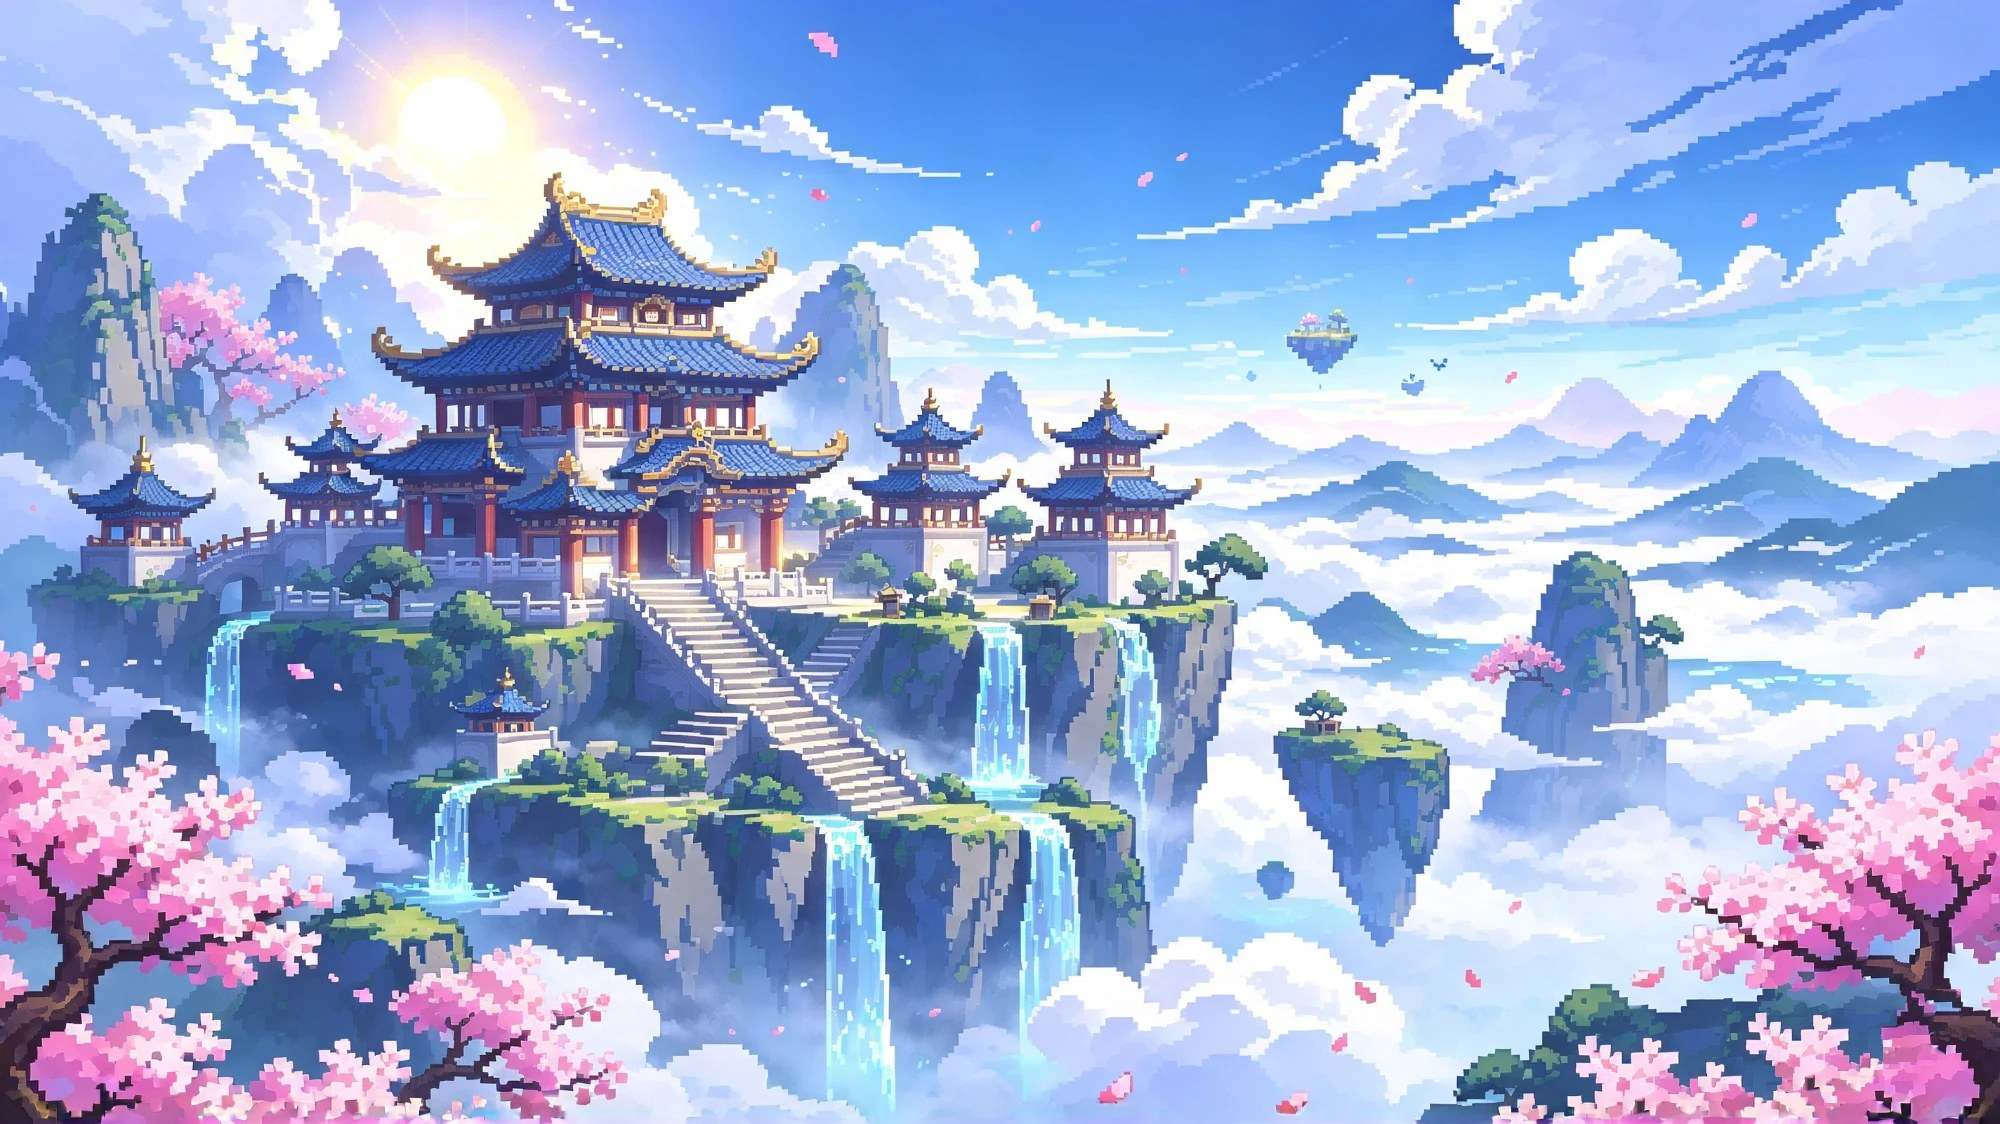
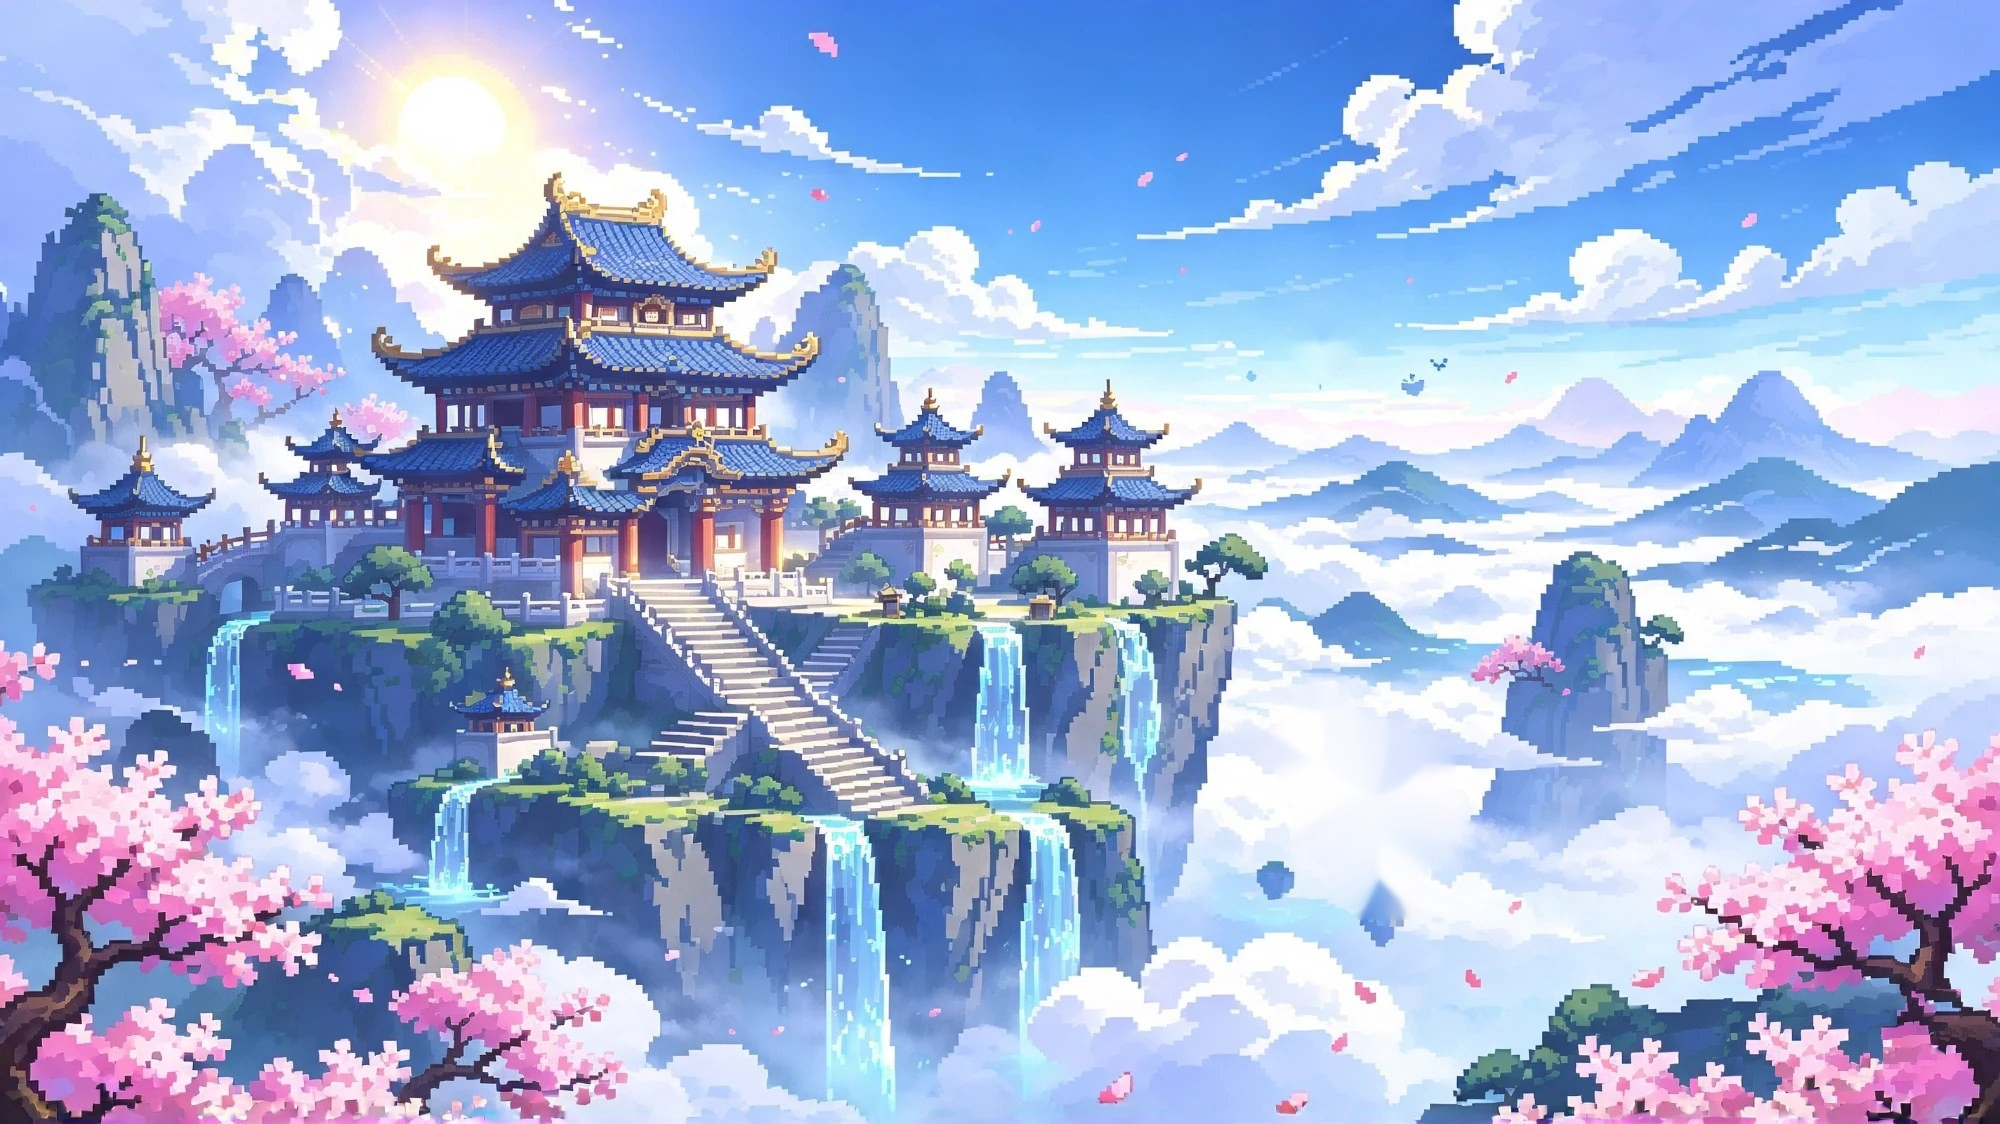
Menu ngang + dọc: hoạt ảnh nền (đảo bay, thác, mây, cánh hoa)
Claude-Session: https://claude.ai/code/session_014A94BHnyL4tu48AS77QbVM

Changed region(s): [[0.62, 0.6228, 0.744, 0.8096], [0.62, 0.2802, 0.682, 0.3425]]

diff --git a/src/ui/screens/MainMenu.ts b/src/ui/screens/MainMenu.ts
@@ -3,6 +3,7 @@ import { getSave, progressCount, gameCompleted } from '../../systems/progression
 import { tierLabel } from '../../config/realms';
 import { audio } from '../../systems/Audio';
 import { openSettings } from './Settings';
+import { SectFx } from '../sectFx';
 
 /**
  * Menu chính: nền Vân Hạc Tông (dùng chung với Lobby), tiêu đề vàng,
@@ -31,8 +32,10 @@ export function buildMainMenu(onPlay: () => void): HTMLElement {
   };
   render();
 
+  const sect = h('div', { class: 'sect' });
+  new SectFx(sect, 'menu');                                              // hoạt ảnh nền: đảo bay, thác, mây, cánh hoa
   root.append(
-    h('div', { class: 'sect' }),
+    sect,
     h('div', { class: 'menu-shade' }),
     h('header', { class: 'menu-head' },
       h('h1', { class: 'menu-title' }, h('span', { text: 'VẠN GIỚI' }), h('span', { text: 'TẦM QUANG' })),

diff --git a/src/config/sectFx.ts b/src/config/sectFx.ts
@@ -41,4 +41,17 @@ export const SECT_FX: Record<string, SectFxDef> = {
     fall: { src: 'bg_lobby_tall_fall', x: 42, y: 383, w: 522, h: 259 },
     clouds: [[150, -40, 260, 40], [470, -40, 220, 35], [700, 440, 680, 40], [1085, -40, 200, 40]],
   },
+  menu_wide: { w: 2000, h: 1124, posX: 0.5, posY: 0.5,
+    islands: [
+      { src: 'bg_menu_wide_i0', x: 1272, y: 300, w: 98, h: 82 },
+      { src: 'bg_menu_wide_i1', x: 1262, y: 676, w: 200, h: 284 },
+    ],
+    fall: { src: 'bg_menu_wide_fall', x: 203, y: 614, w: 954, h: 448 },
+    clouds: [[650, 1150, 2060, 60], [1010, 560, 1500, 60], [160, 700, 1600, 55], [480, 1500, 2060, 50]],
+  },
+  menu_tall: { w: 632, h: 1124, posX: 0.5, posY: 0.5,
+    islands: [],
+    fall: { src: 'bg_menu_tall_fall', x: 106, y: 783, w: 448, h: 341 },
+    clouds: [[130, 300, 680, 45], [900, -40, 300, 40], [1080, 250, 680, 40]],
+  },
 };

diff --git a/src/ui/styles.css b/src/ui/styles.css
@@ -45,7 +45,7 @@
 
 /* ---------- Nền tông môn dùng chung (Menu + Lobby) + nhân vật pixel ---------- */
 .sect { position: absolute; inset: 0; background: url('/ui/bg_lobby_wide.jpg?v=2') 50% 70% / cover no-repeat #6aa8f2; }
-.menu .sect { background-image: url('/ui/bg_menu_wide.jpg?v=1'); background-position: 50% 50%; }
+.menu .sect { background-image: url('/ui/bg_menu_wide.jpg?v=2'); background-position: 50% 50%; }
 /* hoạt ảnh nền (src/ui/sectFx.ts): canvas phủ trong suốt, không chặn bấm */
 .sect-fx { position: absolute; inset: 0; width: 100%; height: 100%; pointer-events: none; }
 /* màn hình dọc dùng bản 9:16 — tỉ lệ + vị trí phải khớp SECT trong Hub.ts */

diff --git a/tools/art/sect_fx.py b/tools/art/sect_fx.py
@@ -32,6 +32,16 @@ BG = {
         falls=[(212, 408, 252, 500), (198, 500, 242, 555), (252, 500, 282, 580), (448, 500, 502, 640), (528, 505, 562, 600), (44, 385, 78, 455)],
         qi_skip=None,                                                   # bản dọc không có suối linh khí (chỉ cổng truyền tống)
     ),
+    'bg_menu_wide': dict(
+        islands=[(1272, 300, 1370, 382), (1262, 676, 1462, 960, 40)],
+        falls=[(205, 615, 265, 740), (430, 785, 480, 895), (810, 815, 880, 1060), (968, 625, 1025, 790), (1018, 815, 1080, 990), (1110, 620, 1155, 775)],
+        qi_skip=None,
+    ),
+    'bg_menu_tall': dict(
+        islands=[],
+        falls=[(108, 785, 152, 885), (495, 815, 552, 1124)],
+        qi_skip=None,
+    ),
 }
 
 
@@ -98,8 +108,9 @@ def main():
             hole[y0:y1, x0:x1] |= hm
             ts.append(f"      {{ src: '{name}_i{n}', x: {x0}, y: {y0}, w: {x1 - x0}, h: {y1 - y0} }},")
         ts.append('    ],')
-        patched = cv2.inpaint(bgr, hole, 9, cv2.INPAINT_TELEA)
-        cv2.imwrite(os.path.join(UI, f'{name}.jpg'), patched, [cv2.IMWRITE_JPEG_QUALITY, 90])
+        if cfg['islands']:
+            patched = cv2.inpaint(bgr, hole, 9, cv2.INPAINT_TELEA)
+            cv2.imwrite(os.path.join(UI, f'{name}.jpg'), patched, [cv2.IMWRITE_JPEG_QUALITY, 90])
         # --- mặt nạ thác + linh khí (theo màu ảnh gốc)
         b, g, r = (bgr[..., i].astype(int) for i in range(3))
         water = (b > 200) & (g > 185) & (b - r > 25)
